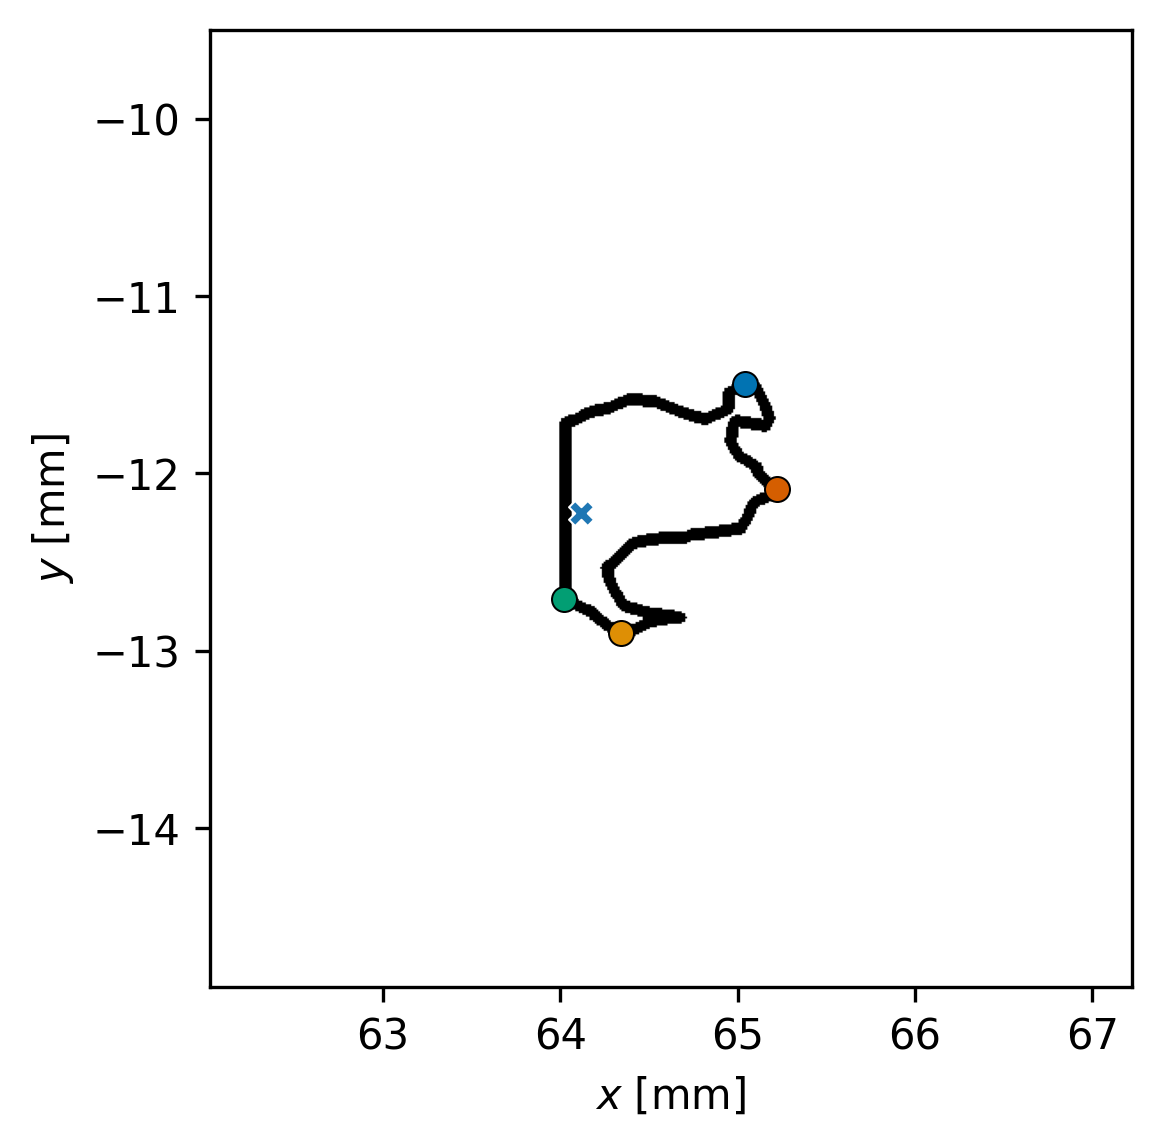
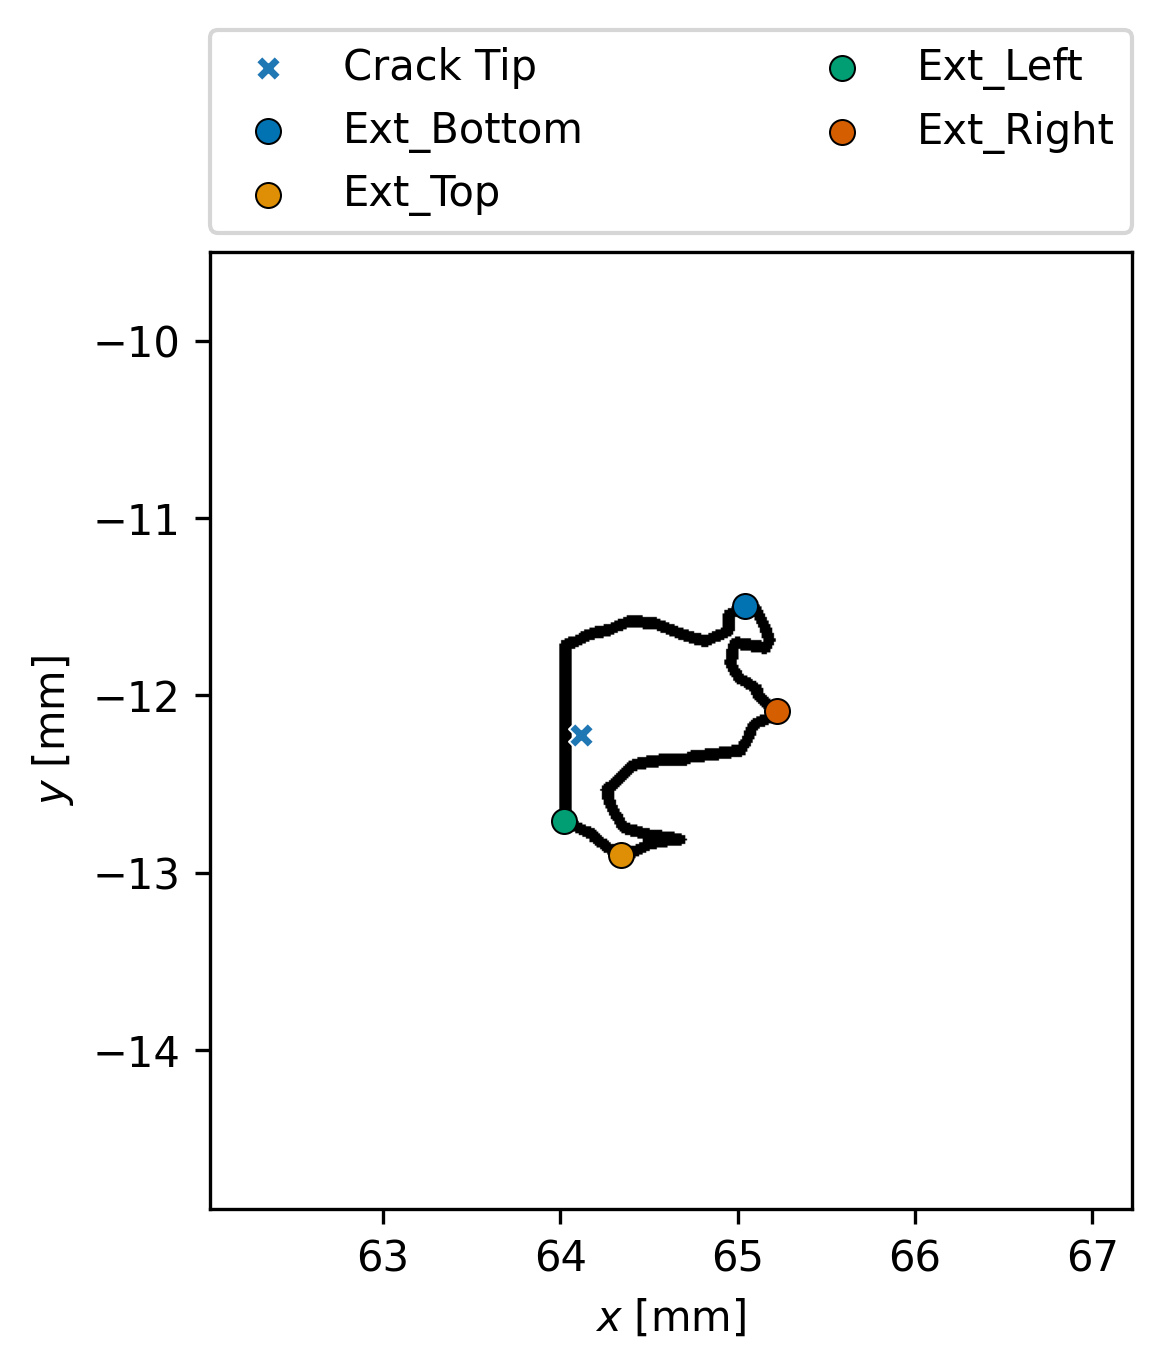
Added legend to plot

diff --git a/utils/plot.py b/utils/plot.py
@@ -107,6 +107,7 @@ class Plotter:
                         marker="X",
                         ax=axs,
                         zorder=1,
+                        label='Crack Tip'
                     )
 
                 if np.any(plot_extreme_points):
@@ -123,6 +124,7 @@ class Plotter:
                             ax=axs,
                             edgecolor="k",
                             zorder=2,
+                            label=ext
                         )
 
                 axs.set_xlim(
@@ -147,6 +149,11 @@ class Plotter:
                 )
                 axs.set_xlabel(r"$\it x$ [mm]")
                 axs.set_ylabel(r"$\it y$ [mm]")
+
+                handles, labels = axs.get_legend_handles_labels()
+                axs.legend(handles, labels, bbox_to_anchor=(0, 1.02, 1, 0.2), loc="lower left",
+                                 mode="expand", borderaxespad=0, ncol=2)
+
                 plt.tight_layout()
 
                 output_name = f"{self.analysis.nodemap_name}.png"

diff --git a/pz_analysis.py b/pz_analysis.py
@@ -13,14 +13,14 @@ from utils.result_writer import Result_Writer
 
 
 global_path = os.getcwd()
-specimen_name = "dic_mt_specimen"
+specimen_name = "dic_cruciform_specimen"
 side = "right"
-specimen_type = "MT"
+specimen_type = "Biax"
 
 
-data_input = data_input_from_csv_mt(
+data_input = data_input_from_csv(
     csv_filepath=os.path.join(
-        global_path, "data_examples", f"{specimen_name}", "MT160_45_MDIC.csv"
+        global_path, "data_examples", f"{specimen_name}", "Cruciform_5.csv"
     )
 )
 
